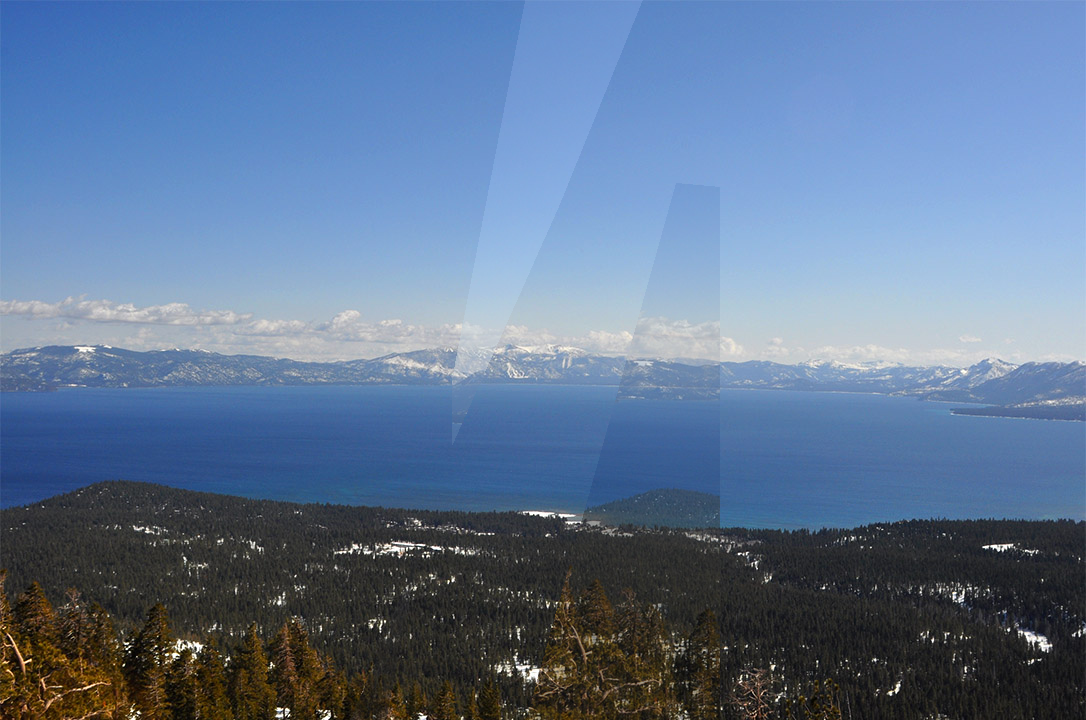
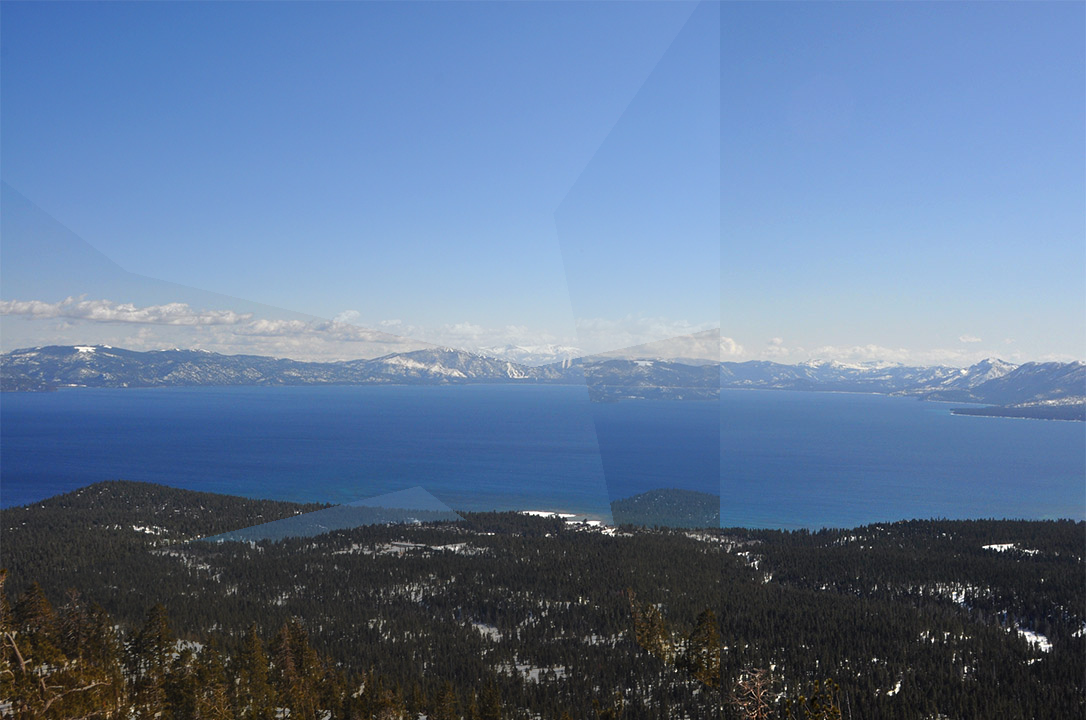
really final

diff --git a/blendImagePair.m b/blendImagePair.m
@@ -3,8 +3,8 @@ img1 = wrapped_imgs;
 mask1= masks;
 img2 = wrapped_imgd;
 mask2 = maskd;
-mask1(mask1 > 0) = 1;
-mask2(mask2 > 0) = 1;
+%mask1(mask1 > 0) = 1;
+%mask2(mask2 > 0) = 1;
 if strcmp(mode,'overlay')
    
     w1 = cat(3, ~mask2, ~mask2, ~mask2);
@@ -13,9 +13,13 @@ if strcmp(mode,'overlay')
 elseif strcmp(mode,'blend')
     w1 = cat(3,mask1,mask1,mask1);
     w2 = cat(3,mask2,mask2,mask2);
-    out_img = (w2 .* im2double(img2) + w1 .* im2double(img1))./ (w1+w2);
+   
+        try
+      out_img = (w2 .* im2double(img2) + w1 .* im2double(img1))./(w1+w2);
+        catch ME
+             out_img = (im2double(w2) .* im2double(img2) + im2double(w1) .* im2double(img1))./im2double((w1+w2));
+        end
 
-    
 else
     disp('wrong mode');
 end

diff --git a/runHw4.m b/runHw4.m
@@ -36,7 +36,7 @@ runTests(varargin, fun_handles);
 function honesty()
 % Type your full name and uni (both in string) to state your agreement 
 % to the Code of Academic Integrity.
-signAcademicHonestyPolicy('Peter Paker', 'pp1917');
+signAcademicHonestyPolicy('Ruite Guo', '9073576853');
 
 %--------------------------------------------------------------------------
 % Tests for Challenge 1: Panoramic Photo App
